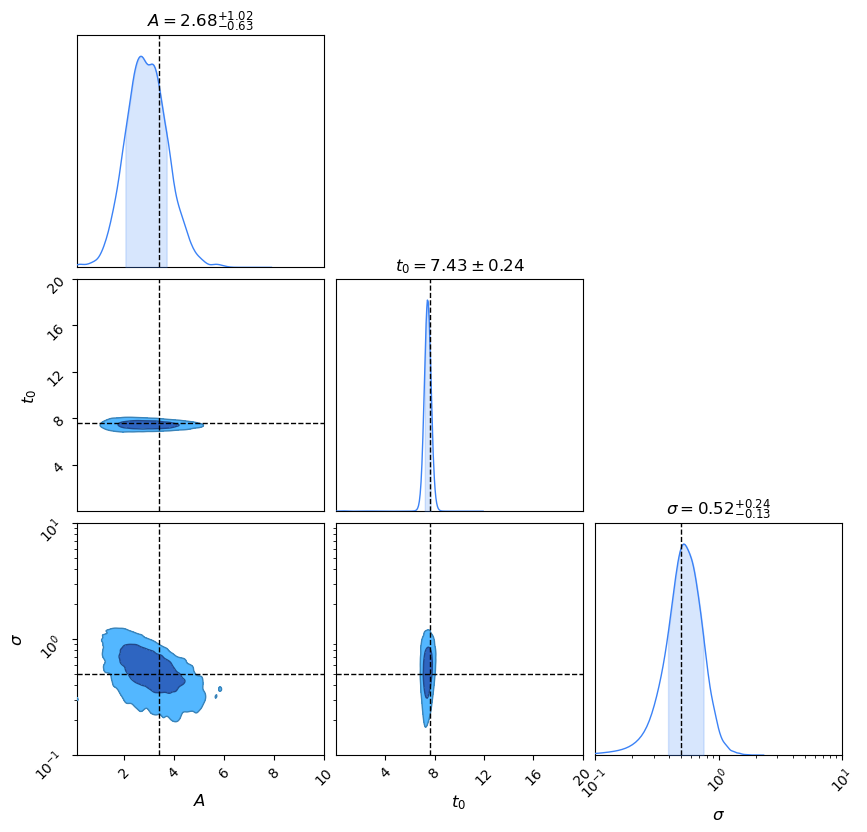
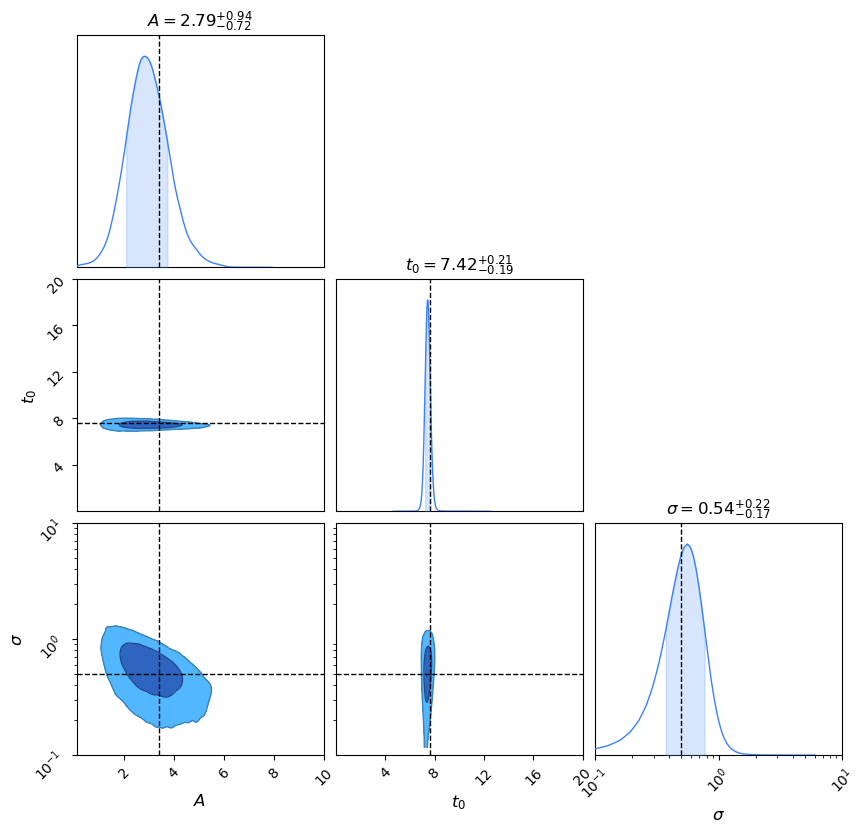
Update jump covariance matrix/std to get better a better jumpt acceptance ratio in the simulations

diff --git a/docs/source/sections/mcmc_the-bump/mcmc_the-bump.md b/docs/source/sections/mcmc_the-bump/mcmc_the-bump.md
@@ -341,7 +341,7 @@ for i in tqdm(range(1,Nsample)):
             x_samples[i,:] = x_current
 ```
 
-    100%|███████████████████████████████████████████████████████████████████████████████████████████████████████████| 199999/199999 [02:17<00:00, 1452.78it/s]
+    100%|█████████████████████████████████████████████████████████████████████████████████████████████████████████████| 199999/199999 [02:15<00:00, 1472.88it/s]
 
 
 That's all there is to it!  The entire MCMC "black box" fits in the above code block.  Hopefully now that we have broken things down line-by-line, it isn't so daunting to understand.  We just cooked up a simple MCMC!
@@ -419,7 +419,7 @@ Create the final corner plot of the posterior samples.
 c = ChainConsumer()
 
 chain = Chain(samples = PD_samples_final,
-              columns = label,
+              columns = param_labels,
               name    = "MCMC: 1D Bump",
               )
 
@@ -690,8 +690,8 @@ But it is **critical** that the standard deviation in both the forward and rever
 
 def jump_F_MultivariateNorm(sample_current):
     # Covariance matrix that set's each parameter's jump scale
-    Cov = np.array([[1, 0  ],
-                    [0, 0.6]])
+    Cov = np.array([[0.1, 0  ],
+                    [0,   0.1]])
     
     # draw a new random sample using the .RVS() method, and calculate the PDF value using the .PDF() method
     sample_proposed = scipy.stats.multivariate_normal(mean=np.array(sample_current), cov=Cov).rvs()
@@ -704,8 +704,8 @@ def jump_F_MultivariateNorm(sample_current):
 
 def jump_R_MultivariateNorm(sample_current, sample_proposed):
     # standard deviation of the jump
-    Cov = np.array([[1, 0  ],
-                    [0, 0.6]])
+    Cov = np.array([[0.1, 0  ],
+                    [0,   0.1]])
     
     # draw a new random sample using the .RVS() method, and calculate the PDF value using the .PDF() method    
     pdf_value = scipy.stats.multivariate_normal(mean=np.array(sample_proposed), cov=Cov).pdf(sample_current)
@@ -733,9 +733,9 @@ print("PDF value of Current  sample given Proposed sample (REVERSE jump) = {0:0.
 ```
 
     Current Sample  = [3.783, 1.2]
-    Proposed Sample = [4.14078736 1.63438183]
-    PDF value of Proposed sample given Current  sample (FORWARD jump) = 0.1647
-    PDF value of Current  sample given Proposed sample (REVERSE jump) = 0.1647
+    Proposed Sample = [3.8961423  1.37733564]
+    PDF value of Proposed sample given Current  sample (FORWARD jump) = 1.2757
+    PDF value of Current  sample given Proposed sample (REVERSE jump) = 1.2757
 
 
 ### MCMC Algorithm
@@ -829,7 +829,7 @@ for i in tqdm(range(1,Nsample)):
             x_samples[i,:] = x_current
 ```
 
-    100%|███████████████████████████████████████████████████████████████████████████████████████████████████████████| 199999/199999 [00:57<00:00, 3498.50it/s]
+    100%|█████████████████████████████████████████████████████████████████████████████████████████████████████████████| 199999/199999 [01:00<00:00, 3287.10it/s]
 
 
 That's all there is to it!  The entire MCMC "black box" fits in the above code block.  Hopefully now that we have broken things down line-by-line, it isn't so daunting to understand.  We just cooked up a simple MCMC!
@@ -899,7 +899,7 @@ Now that we have an idea of how long it took our sampler to burn-in, let's throw
 
 ```python
 # Discard (burn) samples
-burn = 25_000
+burn = 40_000
 
 # Final posterior samples
 # --> we will save two copies of the final samples: 
@@ -1195,9 +1195,9 @@ But it is **critical** that the standard deviation in both the forward and rever
 
 def jump_F_MultivariateNorm(sample_current):
     # Covariance matrix that set's each parameter's jump scale
-    Cov = np.array([[0.4, 0, 0   ],
-                    [0,   1, 0   ],
-                    [0,   0, 0.06]])
+    Cov = np.array([[0.1, 0,   0   ],
+                    [0,   0.1, 0   ],
+                    [0,   0,   0.1]])
     
     # draw a new random sample using the .RVS() method, and calculate the PDF value using the .PDF() method
     sample_proposed = scipy.stats.multivariate_normal(mean=np.array(sample_current), cov=Cov).rvs()
@@ -1210,9 +1210,9 @@ def jump_F_MultivariateNorm(sample_current):
 
 def jump_R_MultivariateNorm(sample_current, sample_proposed):
     # standard deviation of the jump
-    Cov = np.array([[0.4, 0, 0   ],
-                    [0,   1, 0   ],
-                    [0,   0, 0.06]])
+    Cov = np.array([[0.1, 0,   0   ],
+                    [0,   0.1, 0   ],
+                    [0,   0,   0.1]])
     
     # draw a new random sample using the .RVS() method, and calculate the PDF value using the .PDF() method    
     pdf_value = scipy.stats.multivariate_normal(mean=np.array(sample_proposed), cov=Cov).pdf(sample_current)
@@ -1240,9 +1240,9 @@ print("PDF value of Current  sample given Proposed sample (REVERSE jump) = {0:0.
 ```
 
     Current Sample  = [4.1, 3.783, 1.2]
-    Proposed Sample = [4.45467128 4.14078736 1.46529229]
-    PDF value of Proposed sample given Current  sample (FORWARD jump) = 0.1827
-    PDF value of Current  sample given Proposed sample (REVERSE jump) = 0.1827
+    Proposed Sample = [4.2131423  3.96033564 1.54249088]
+    PDF value of Proposed sample given Current  sample (FORWARD jump) = 0.8952
+    PDF value of Current  sample given Proposed sample (REVERSE jump) = 0.8952
 
 
 ### MCMC Algorithm
@@ -1326,7 +1326,7 @@ for i in tqdm(range(1,Nsample)):
             x_samples[i,:] = x_current
 ```
 
-    100%|███████████████████████████████████████████████████████████████████████████████████████████████████████████| 199999/199999 [01:17<00:00, 2573.63it/s]
+    100%|█████████████████████████████████████████████████████████████████████████████████████████████████████████████| 199999/199999 [01:12<00:00, 2770.11it/s]
 
 
 That's all there is to it!  The entire MCMC "black box" fits in the above code block.  Hopefully now that we have broken things down line-by-line, it isn't so daunting to understand.  We just cooked up a simple MCMC!

diff --git a/docs/source/sections/tracking_in-model_jumps/tracking_in-model_jumps.md b/docs/source/sections/tracking_in-model_jumps/tracking_in-model_jumps.md
@@ -48,7 +48,7 @@ print("In-Model Jump Acceptance Ratio = {0:0.2f}".format(jump_acceptance_ratio_i
 
 Now when we run our sampler and calculate the above average, it will print out something like:
 
-    In-Model Jump Acceptance Ratio = 0.13
+    In-Model Jump Acceptance Ratio = 0.29
 
 
 So this gives us a high-level view of how our sampler is performing.  But it is just the overall average jump acceptance ratio for the entire run of our MCMC.
@@ -113,6 +113,4 @@ ax.grid()
 plt.show()
 ```
 
-
-    
 ![png](dynamic_acceptance_plot.png)
